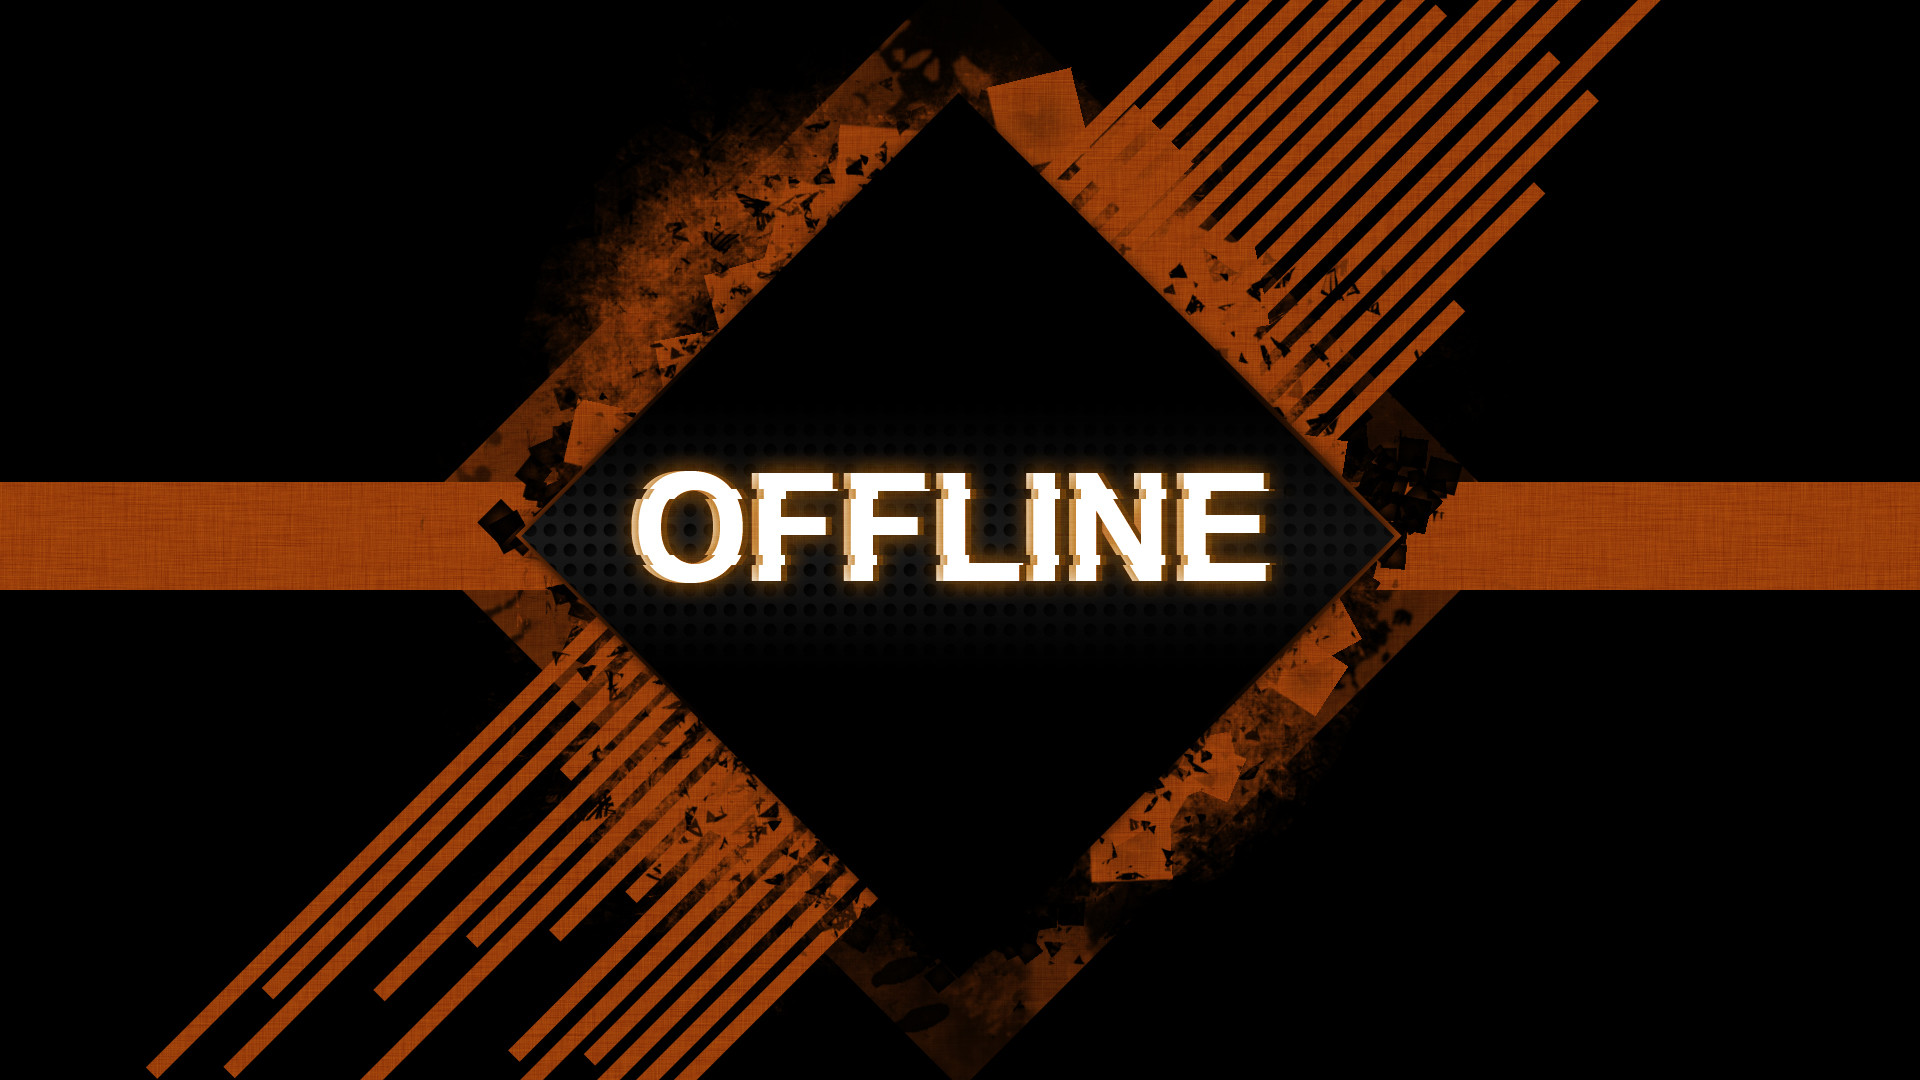
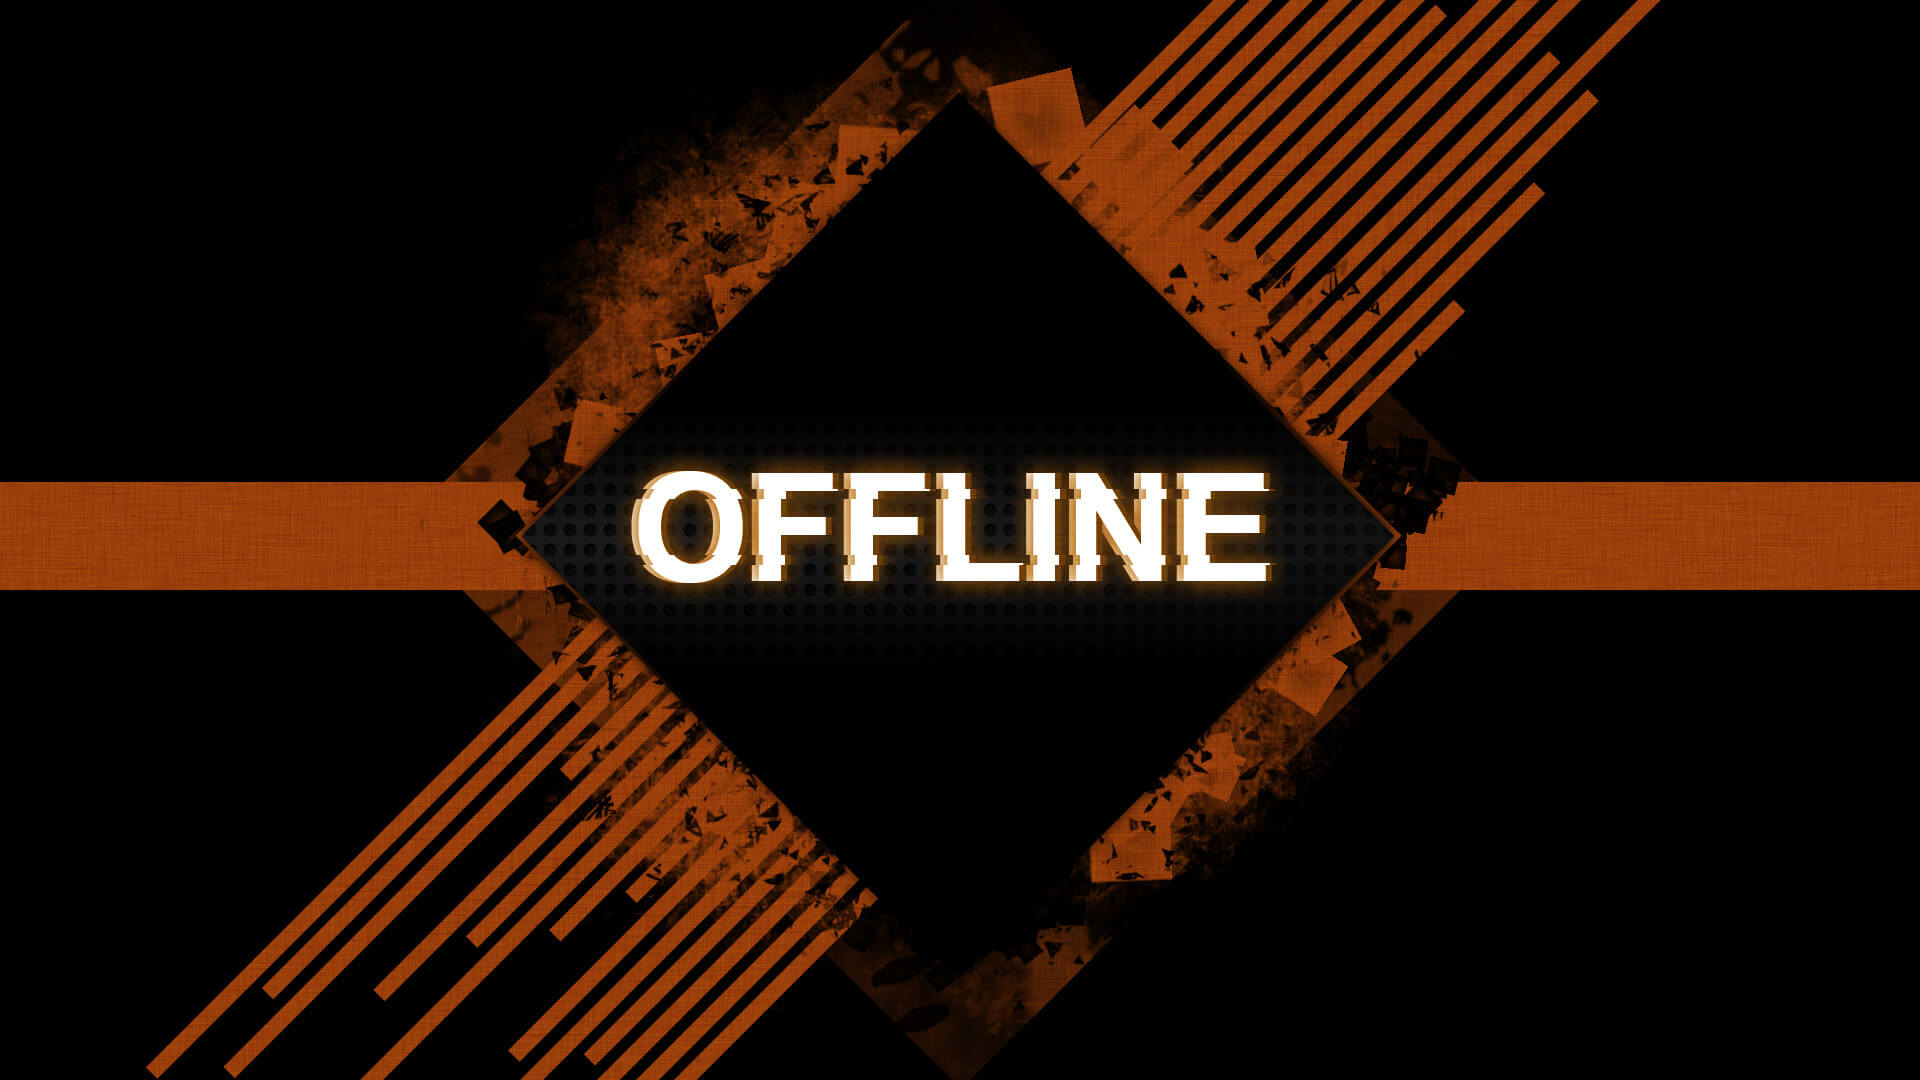
Reduction des images + Ajout animation (live)

diff --git a/View/Partial/live.html b/View/Partial/live.html
@@ -12,7 +12,7 @@
       </div>
       
       <div ng-show="!($parent.live.Youtube || $parent.live.Twitch)">
-        <img ng-src="../Img/Live/LiveInPause2.jpg" class="img-rounded img-responsive" alt="Responsive image"></img>
+        <img ng-src="../Img/Live/LiveInPause2.jpg" ng-image-appear animation="blurIn" class="img-rounded img-responsive img-center" alt="Responsive image"></img>
       </div>
       
       <div ng-if="$parent.live.Youtube">
